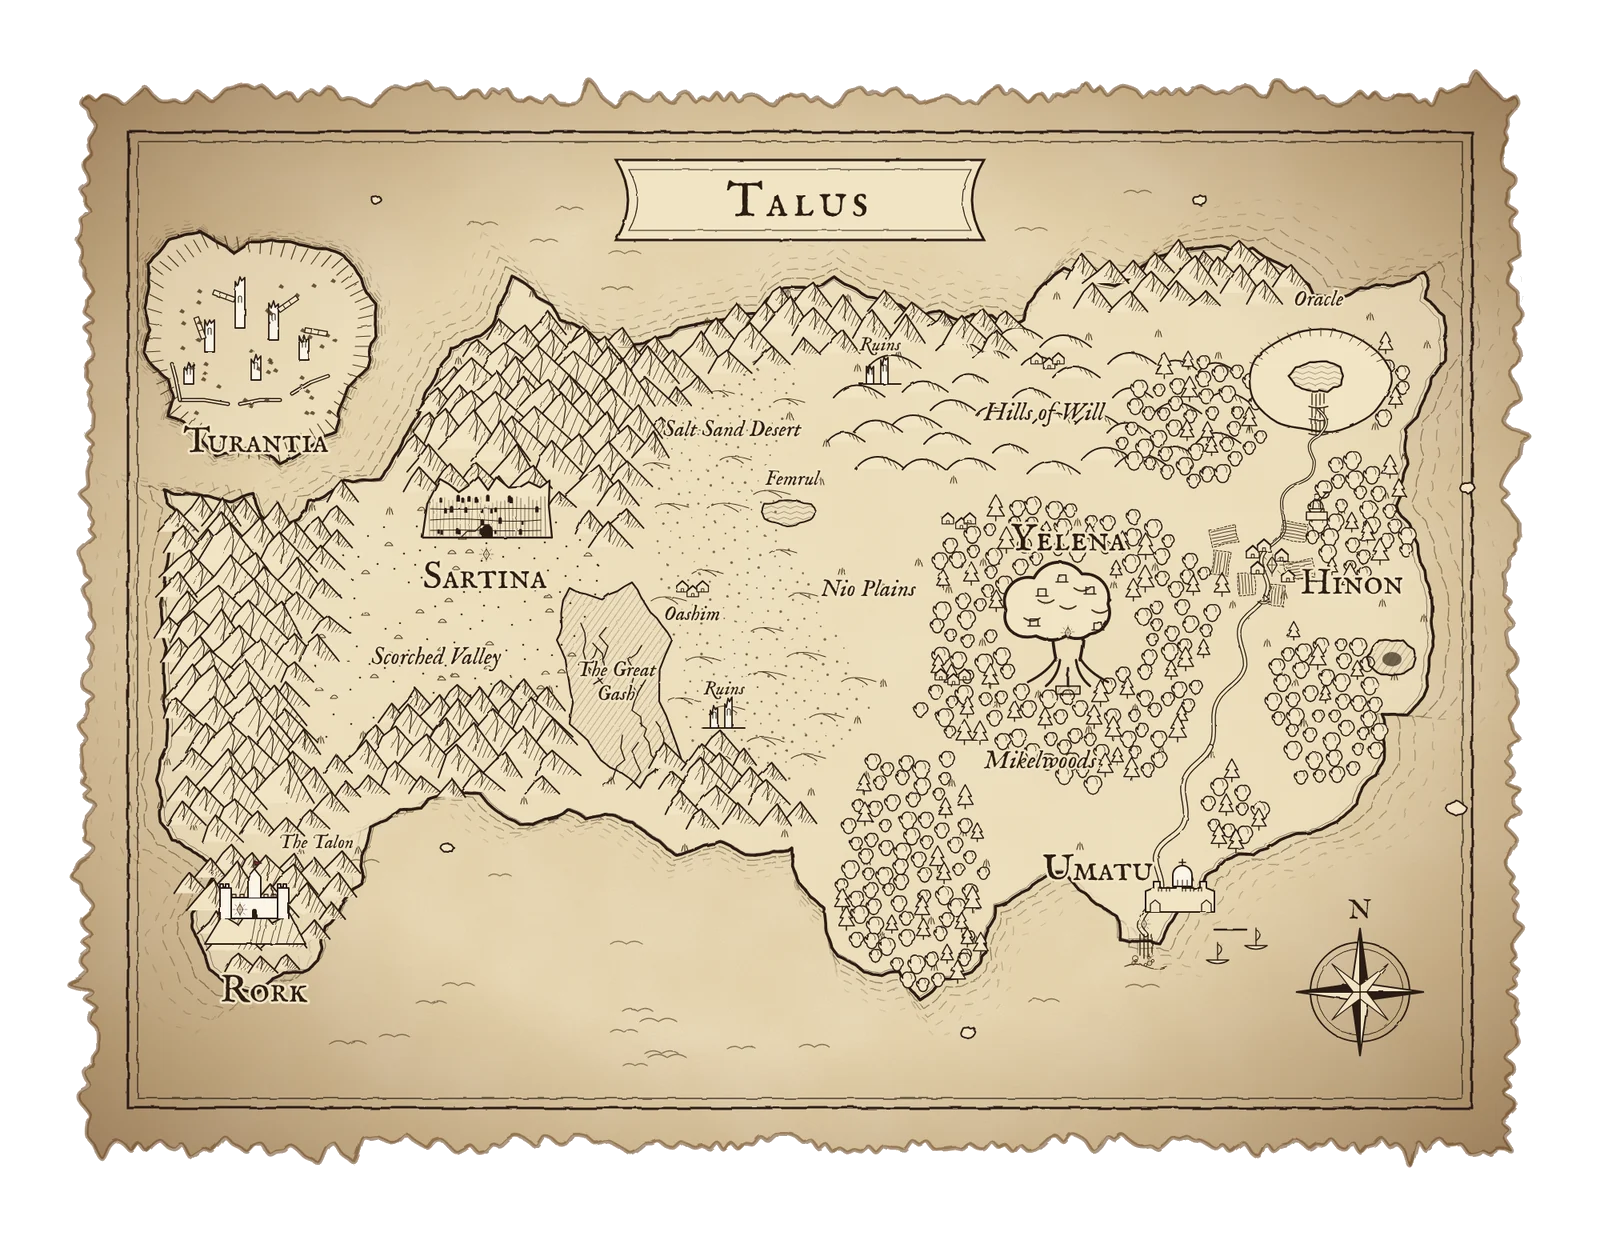
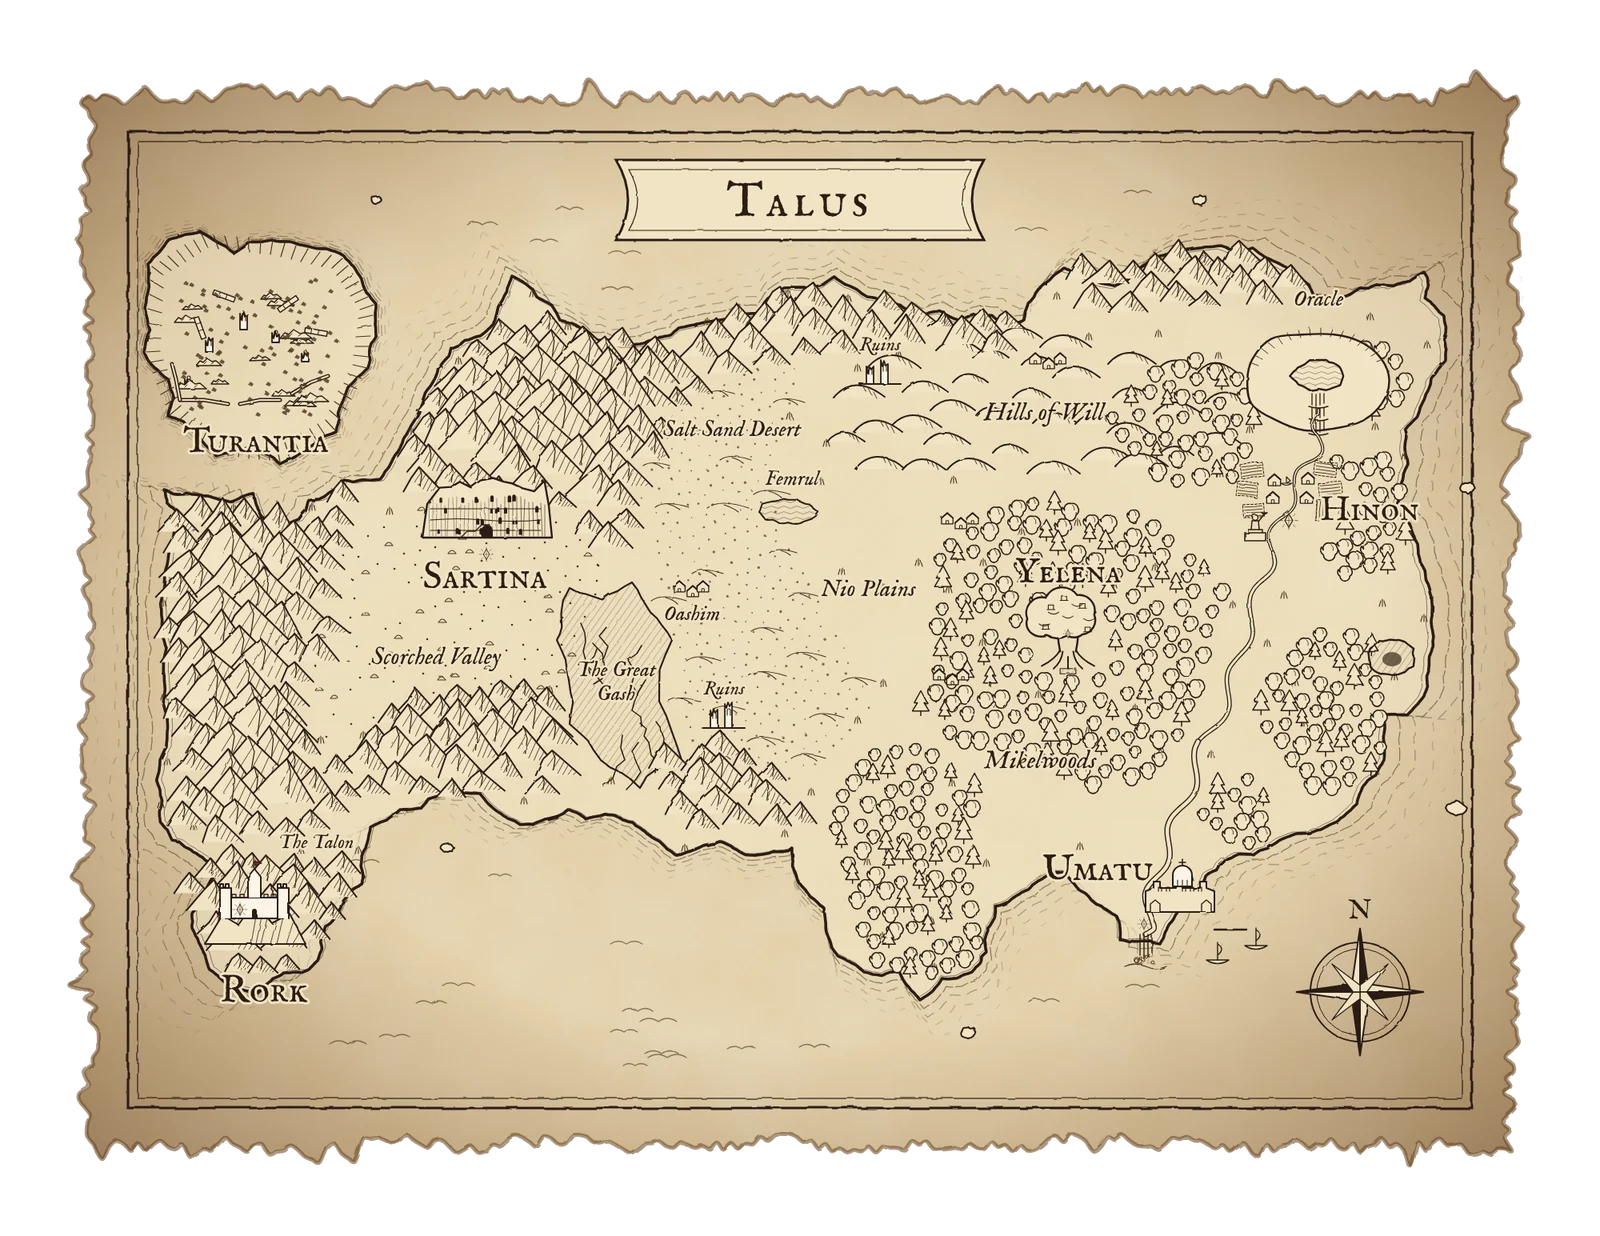
Talus map v3 (N8): Hinon just below the Oracle falls with farms on both banks, smaller Yelena tree, Turantia reduced to rubble
Claude-Session: https://claude.ai/code/session_0191hZ7RMo7pKFGRuPGMgbF8

diff --git a/tools/lightbringer/ink_map.py b/tools/lightbringer/ink_map.py
@@ -139,7 +139,7 @@ RIVER = [(1648,512),(1650,545),(1640,575),(1618,610),(1600,650),(1588,690),(1578
          (1505,930),(1488,980),(1470,1030),(1452,1075),(1440,1120),(1432,1168)]
 FORESTS = [((1330,800),205,175),((1135,1085),95,150),((1490,520),85,70),((1700,640),62,80),((1660,880),75,95),
            ((1720,470),40,45),((1545,1010),40,40),((1235,1190),40,30)]
-HOLES = [blob(1335,780,95,90,10,.05), blob(1585,700,62,46,10,.05)]   # clearings for Yelena's tree and Hinon's farms
+HOLES = [blob(1335,790,62,58,10,.05), blob(1615,618,80,62,10,.05)]   # clearings for Yelena's tree and Hinon's farms
 
 out = []
 A = out.append
@@ -299,19 +299,19 @@ def cottage(x, y, s=1):
       f'<path d="M-2 6 v-5 h4 v5" fill="none" stroke="{INK}" stroke-width="1.2"/><path d="M-9 -3 l9 -8 l9 8" fill="none" stroke="{INK}" stroke-width="2.4"/></g>')
 
 # --- Hinon: quiet fishing and farming village, Life Crystal among farmland and gardens, statue of Hinon above the great tomb
-hx, hy = 1588, 700
-for (fx, fy, w, h, a) in [(-58,-30,34,22,-12),(-62,4,30,22,8),(-30,30,28,20,-4),(30,-36,32,22,10),(36,12,36,24,-8),(8,44,26,18,6)]:
+hx, hy = 1615, 612   # N8: just below the Oracle falls, farmland on both banks
+for (fx, fy, w, h, a) in [(-50,-24,28,18,-8),(-56,0,26,18,6),(-48,26,26,16,-4),(42,-26,28,18,8),(48,0,28,18,-6),(38,26,26,16,4)]:
     # furrowed fields: no hard box, just a soft hedge line and rows that change direction field to field
     rows = ''.join(f'<path d="M{-w/2+2} {-h/2+k} q{w/2} {random.uniform(-1.5,1.5):.1f} {w-4} 0" fill="none" stroke="{INK2}" stroke-width=".9"/>' for k in range(3, int(h), 4))
     G(f'<g transform="translate({hx+fx} {hy+fy}) rotate({a + random.choice((0, 90))})"><path d="{lpath(fractal([(-w/2,-h/2),(w/2,-h/2),(w/2,h/2),(-w/2,h/2)],2,.04))}" fill="none" stroke="{INK}" stroke-width="1" stroke-dasharray="3 2"/>{rows}</g>')
-for (cx, cy) in [(-22,-8),(-8,-16),(14,-4),(-16,12),(22,22)]: cottage(hx + cx, hy + cy, .9)
-crystal(hx + 2, hy + 8, .9)
+for (cx, cy) in [(-22,-10),(-24,12),(20,-12),(18,12)]: cottage(hx + cx, hy + cy, .85)
+crystal(hx - 4, hy + 40, .7)
 # statue on its tomb
-G(f'<g transform="translate({hx+58} {hy-62})"><rect x="-13" y="2" width="26" height="10" fill="{PARCH}" stroke="{INK}" stroke-width="1.6"/>'
+G(f'<g transform="translate({hx-46} {hy+52})"><rect x="-13" y="2" width="26" height="10" fill="{PARCH}" stroke="{INK}" stroke-width="1.6"/>'
   f'<path d="M-9 2 v-4 h18 v4" fill="none" stroke="{INK}" stroke-width="1.4"/><circle cx="0" cy="-17" r="3.5" fill="{PARCH}" stroke="{INK}" stroke-width="1.4"/>'
   f'<path d="M-5 -2 l1 -11 h8 l1 11 M4 -12 l7 -9 M11 -21 l-3 -2 h7 z" fill="none" stroke="{INK}" stroke-width="1.5"/></g>')
 # little boats on the river by the village
-G(f'<path d="M{hx-16} {hy+52} q8 6 16 0 z M{hx-8} {hy+52} v-9 l6 6 z" fill="{PARCH}" stroke="{INK}" stroke-width="1.2"/>')
+G(f'<path d="M{hx-14} {hy-8} q7 5 14 0 z M{hx-7} {hy-8} v-8 l5 5 z" fill="{PARCH}" stroke="{INK}" stroke-width="1.2"/>')
 
 # --- Rork: wheck stone fortress high on the Talon of Talus, Life Crystal in a grand courtyard
 rx_, ry_ = 318, 1150
@@ -361,14 +361,14 @@ for bx, by in [(ux + 92, uy + 64), (ux + 44, uy + 82)]:
 crystal(mx - 2, my - 12, .5)   # the holy crystal cave behind the waterfall
 
 # --- Yelena: a gigantic Riverwood tree city of trunks and branches, the sealed vault beneath its roots
-G(f'<g transform="translate(1335 800) scale(1.25)">'
+G(f'<g transform="translate(1335 798) scale(.82)">'
   f'<path d="M-40 42 q20 -10 28 -24 M40 42 q-20 -10 -28 -24 M-22 46 q12 -10 14 -26 M22 46 q-12 -10 -14 -26 M0 46 v-18" fill="none" stroke="{INK}" stroke-width="2.4"/>'
   f'<path d="M-12 20 q-6 -28 -2 -52 M12 20 q6 -28 2 -52 M-8 -14 q-18 -10 -34 -22 M8 -20 q18 -8 34 -20 M-4 -30 q-10 -14 -12 -30 M4 -30 q10 -16 18 -28" fill="none" stroke="{INK}" stroke-width="3"/>'
   f'<path d="M-62 -30 a24 24 0 0 1 28 -32 a28 28 0 0 1 48 -4 a24 24 0 0 1 26 30 a22 22 0 0 1 -18 30 q-10 8 -24 2 q-14 8 -30 0 q-16 4 -26 -6 a20 20 0 0 1 -4 -20 z" fill="{PARCH}" stroke="{INK}" stroke-width="3"/>'
   f'<path d="M-30 -40 q8 6 16 0 M6 -52 q8 6 16 0 M-44 -22 q8 6 16 0 M24 -30 q8 6 16 0 M-8 -34 q8 6 16 0" fill="none" stroke="{INK2}" stroke-width="1.4"/>'
   + ''.join(f'<path d="M{x-6} {y} h12 M{x-4} {y} v-7 h8 v7" fill="none" stroke="{INK}" stroke-width="1.3"/>' for x, y in [(-34,-14),(30,-10),(-6,-58),(22,-46),(-26,-44)])
   + f'<path d="M-12 46 h24 v8 h-24 z" fill="url(#hatch)" stroke="{INK}" stroke-width="1.4"/></g>')
-crystal(1335, 792, .55)
+crystal(1335, 793, .4)
 
 # --- Turantia: the shattered city of Light, ruins on its isolated plateau
 tur_in = scale(TURANTIA, .86)
@@ -381,14 +381,20 @@ for i in range(0, len(tur_in)):
 def broken_tower(x, y, h, w=12):
     G(f'<path d="M{x-w/2:.0f} {y:.0f} v-{h:.0f} l{w*.25:.0f} {random.uniform(4,9):.0f} l{w*.25:.0f} -{random.uniform(6,12):.0f} l{w*.2:.0f} {random.uniform(3,8):.0f} l{w*.3:.0f} -{random.uniform(2,6):.0f} V{y:.0f} z" fill="#fbf5e6" stroke="{INK}" stroke-width="1.8"/>'
       f'<path d="M{x-2:.0f} {y-h*.55:.0f} v-6 a2 2 0 0 1 4 0 v6" fill="none" stroke="{INK}" stroke-width="1.1"/>')
-for x, y, h in [(262,440,40),(300,410,58),(342,425,46),(380,450,30),(320,475,26),(236,480,22)]: broken_tower(x, y, h)
+for x, y, h in [(262,440,14),(305,412,20),(345,428,12),(382,452,10),(236,482,8)]: broken_tower(x, y, h, 10)   # stumps only
+for _ in range(14):   # rubble heaps
+    x, y = random.uniform(230, 410), random.uniform(370, 510)
+    if not inside((x, y), tur_in): continue
+    w = random.uniform(10, 20)
+    G(f'<path d="M{x-w:.0f} {y:.0f} l{w*.3:.0f} -{w*.35:.0f} l{w*.25:.0f} {w*.1:.0f} l{w*.3:.0f} -{w*.3:.0f} l{w*.4:.0f} {w*.25:.0f} l{w*.3:.0f} -{w*.05:.0f} l{w*.45:.0f} {w*.35:.0f} z" fill="{PARCH}" stroke="{INK}" stroke-width="1.4"/>'
+      f'<path d="M{x-w*.4:.0f} {y-w*.12:.0f} l3 -3 M{x+w*.2:.0f} {y-w*.15:.0f} l3 -2" stroke="{INK2}" stroke-width="1"/>')
 # broken wall runs, toppled columns, rubble
 for (x1, y1, x2, y2) in [(225,500,285,505),(300,505,350,500),(365,492,410,470),(225,500,215,455)]:
     G(f'<path d="M{x1} {y1} L{(x1+x2)/2:.0f} {(y1+y2)/2-3:.0f} L{x2} {y2}" fill="none" stroke="{INK}" stroke-width="5"/>'
       f'<path d="M{x1} {y1} L{(x1+x2)/2:.0f} {(y1+y2)/2-3:.0f} L{x2} {y2}" fill="none" stroke="{PARCH}" stroke-width="2"/>')
 for (x, y, a) in [(280,370,20),(360,380,-35),(250,410,70),(395,415,10)]:
     G(f'<g transform="translate({x} {y}) rotate({a})"><rect x="-14" y="-3" width="28" height="6" fill="{PARCH}" stroke="{INK}" stroke-width="1.4"/><path d="M-6 -3 v6 M3 -3 v6" stroke="{INK}" stroke-width="1"/></g>')
-for _ in range(40):
+for _ in range(90):
     x, y = random.uniform(220, 420), random.uniform(350, 520)
     if inside((x, y), tur_in): G(f'<path d="M{x:.0f} {y:.0f} l3 -4 l4 3 l-2 3 z" fill="{INK2}" opacity=".8"/>')
 
@@ -415,8 +421,8 @@ def label(t, x, y, size=34, big=False, ital=False):
     st = 'italic' if ital else 'normal'
     A(f'<text x="{x}" y="{y}" text-anchor="middle" font-family="{fam}, serif" font-style="{st}" font-size="{size}" fill="{INK}" '
       f'stroke="{PARCH}" stroke-width="{6 if big else 5}" paint-order="stroke" stroke-linejoin="round">{t}</text>')
-for t, x, y, s, b in [('Turantia',320,565,46,True),('Sartina',606,735,48,True),('Rork',330,1252,48,True),('Yelena',1335,688,48,True),
-                      ('Hinon',1690,742,46,True),('Umatu',1372,1100,46,True)]:
+for t, x, y, s, b in [('Turantia',320,565,46,True),('Sartina',606,735,48,True),('Rork',330,1252,48,True),('Yelena',1335,728,44,True),
+                      ('Hinon',1712,650,44,True),('Umatu',1372,1100,46,True)]:
     label(t, x, y, s, b)
 for t, x, y, s in [('Scorched Valley',545,830,30),('Salt Sand Desert',915,545,28),('Femrul',990,606,26),('Oashim',865,775,26),
                    ('Ruins',1100,438,24),('Ruins',905,868,24),('Nio Plains',1085,745,30),('Hills of Will',1305,525,32),
